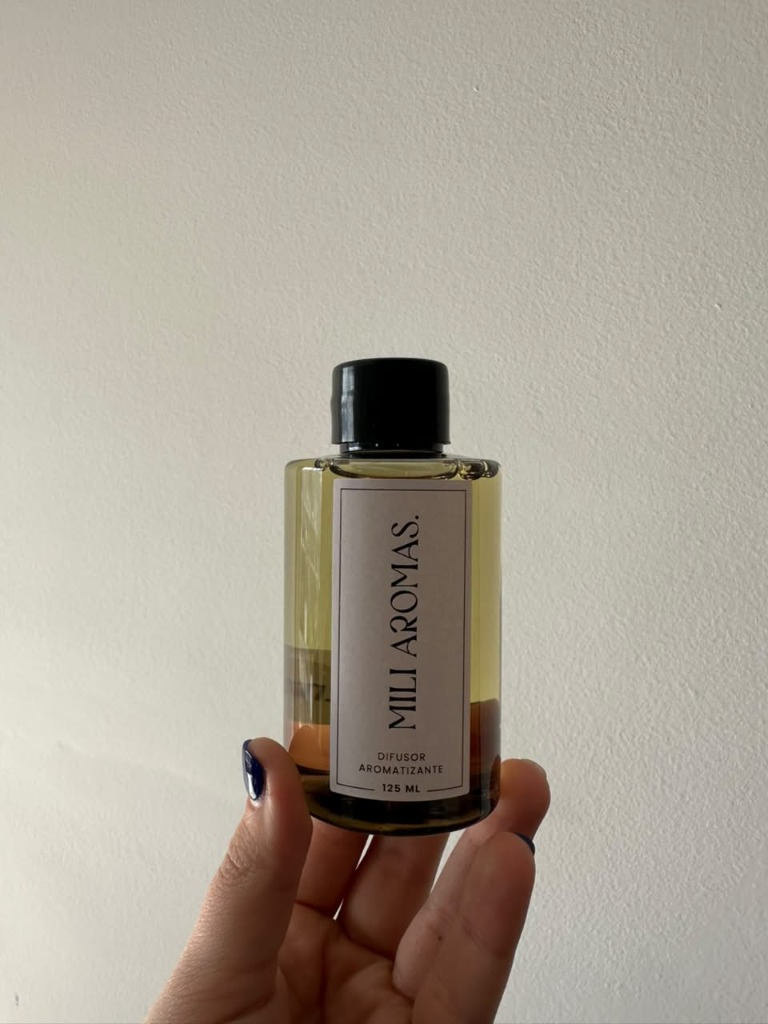
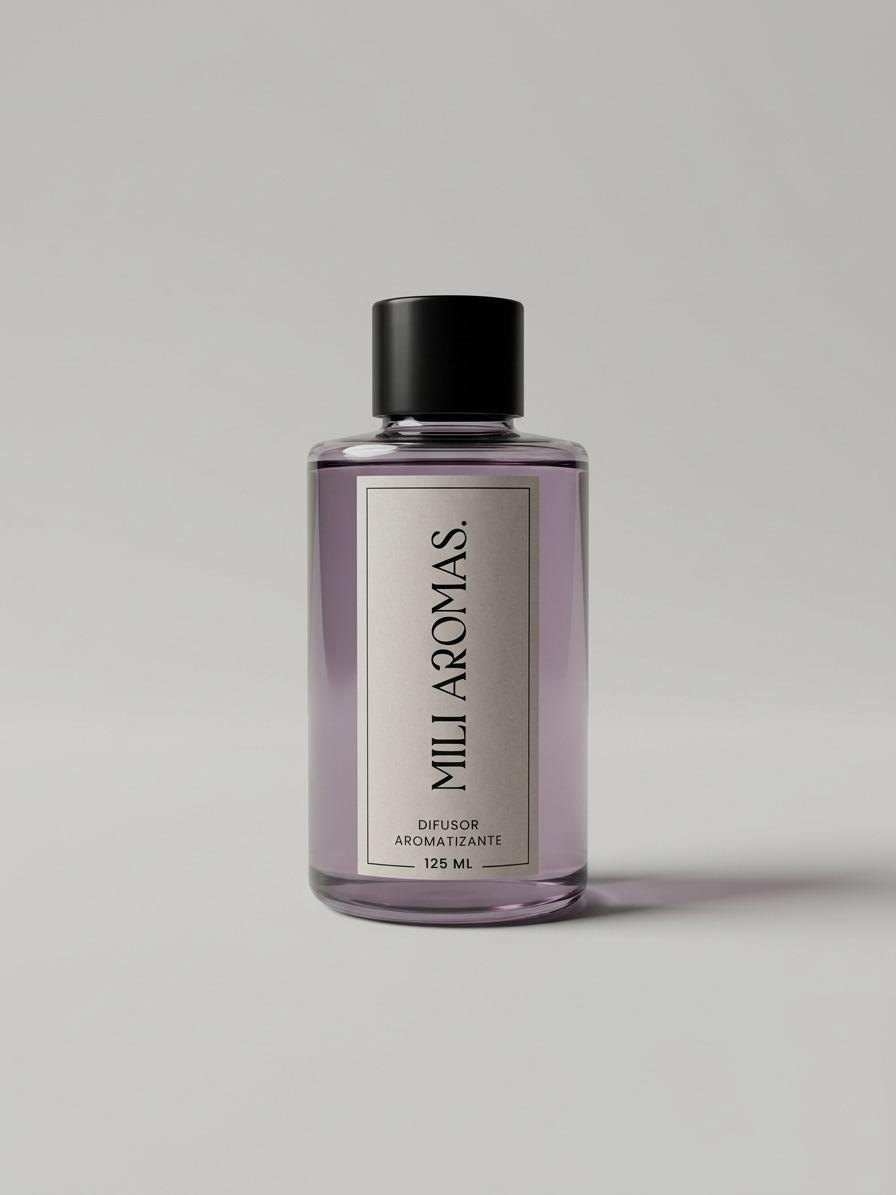
Fotos nuevas de producto y corrección del título
- Fotos de estudio para difusor 200ml, difusor 125ml y spray 250ml
- Versión en las rutas de imágenes para evitar caché
- Tamaño óptico fijo en Bodoni para que no se pierdan los trazos finos

diff --git a/index.html b/index.html
@@ -11,7 +11,7 @@
     <meta property="og:type" content="website">
     <meta property="og:title" content="Mili Aromas">
     <meta property="og:description" content="Difusores y perfumes ambientales. Armá tu pedido y confirmalo por WhatsApp.">
-    <meta property="og:image" content="images/difusor_200.jpg">
+    <meta property="og:image" content="images/difusor_200.jpg?v=2">
     <meta property="og:locale" content="es_AR">
     <meta name="twitter:card" content="summary_large_image">
 
@@ -760,11 +760,11 @@
                     </div>
                     <div class="hero-media">
                         <figure class="frame">
-                            <img src="images/difusor_200.jpg" width="768" height="1024" alt="Frasco de difusor ambiental de 200 ml con etiqueta de Mili Aromas" fetchpriority="high">
+                            <img src="images/difusor_200.jpg?v=2" width="768" height="1024" alt="Frasco de difusor ambiental de 200 ml con etiqueta de Mili Aromas" fetchpriority="high">
                             <figcaption><span>Difusor</span><span>200 ml</span></figcaption>
                         </figure>
                         <figure class="frame">
-                            <img src="images/perfume_250.jpg" width="768" height="1024" alt="Spray aromatizante de 250 ml con etiqueta de Mili Aromas">
+                            <img src="images/perfume_250.jpg?v=2" width="768" height="1024" alt="Spray aromatizante de 250 ml con etiqueta de Mili Aromas">
                             <figcaption><span>Spray</span><span>250 ml</span></figcaption>
                         </figure>
                     </div>
@@ -938,7 +938,7 @@
                 id: 1,
                 name: "Difusor ambiental 200cc",
                 price: 15000,
-                image: "images/difusor_200.jpg",
+                image: "images/difusor_200.jpg?v=2",
                 alt: "Frasco de difusor ambiental de 200 ml",
                 aromas: ["Naranja pimienta", "Limón albahaca", "Vainilla azúcar", "Saibaba", "Citrus", "Verbena", "Jazmín", "Coniglio"]
             },
@@ -946,7 +946,7 @@
                 id: 2,
                 name: "Difusor ambiental 125cc",
                 price: 10000,
-                image: "images/difusor_125.jpg",
+                image: "images/difusor_125.jpg?v=2",
                 alt: "Frasco de difusor ambiental de 125 ml",
                 aromas: ["Limón albahaca", "Coniglio", "Citrus", "Verbena", "Papaya durazno", "Naranja pimienta", "Jazmín", "Coco vainilla", "Vainilla azúcar"]
             },
@@ -954,7 +954,7 @@
                 id: 3,
                 name: "Perfume ambiental 250ml",
                 price: 6500,
-                image: "images/perfume_250.jpg",
+                image: "images/perfume_250.jpg?v=2",
                 alt: "Spray aromatizante de 250 ml",
                 aromas: ["Melón wan", "Citrus", "Rosa jazmín", "Naranja pimienta", "Coniglio", "Vainilla azúcar", "Vivex", "Limón bamboo", "Lemongrass", "Nagchampa", "Limón albahaca"]
             },
